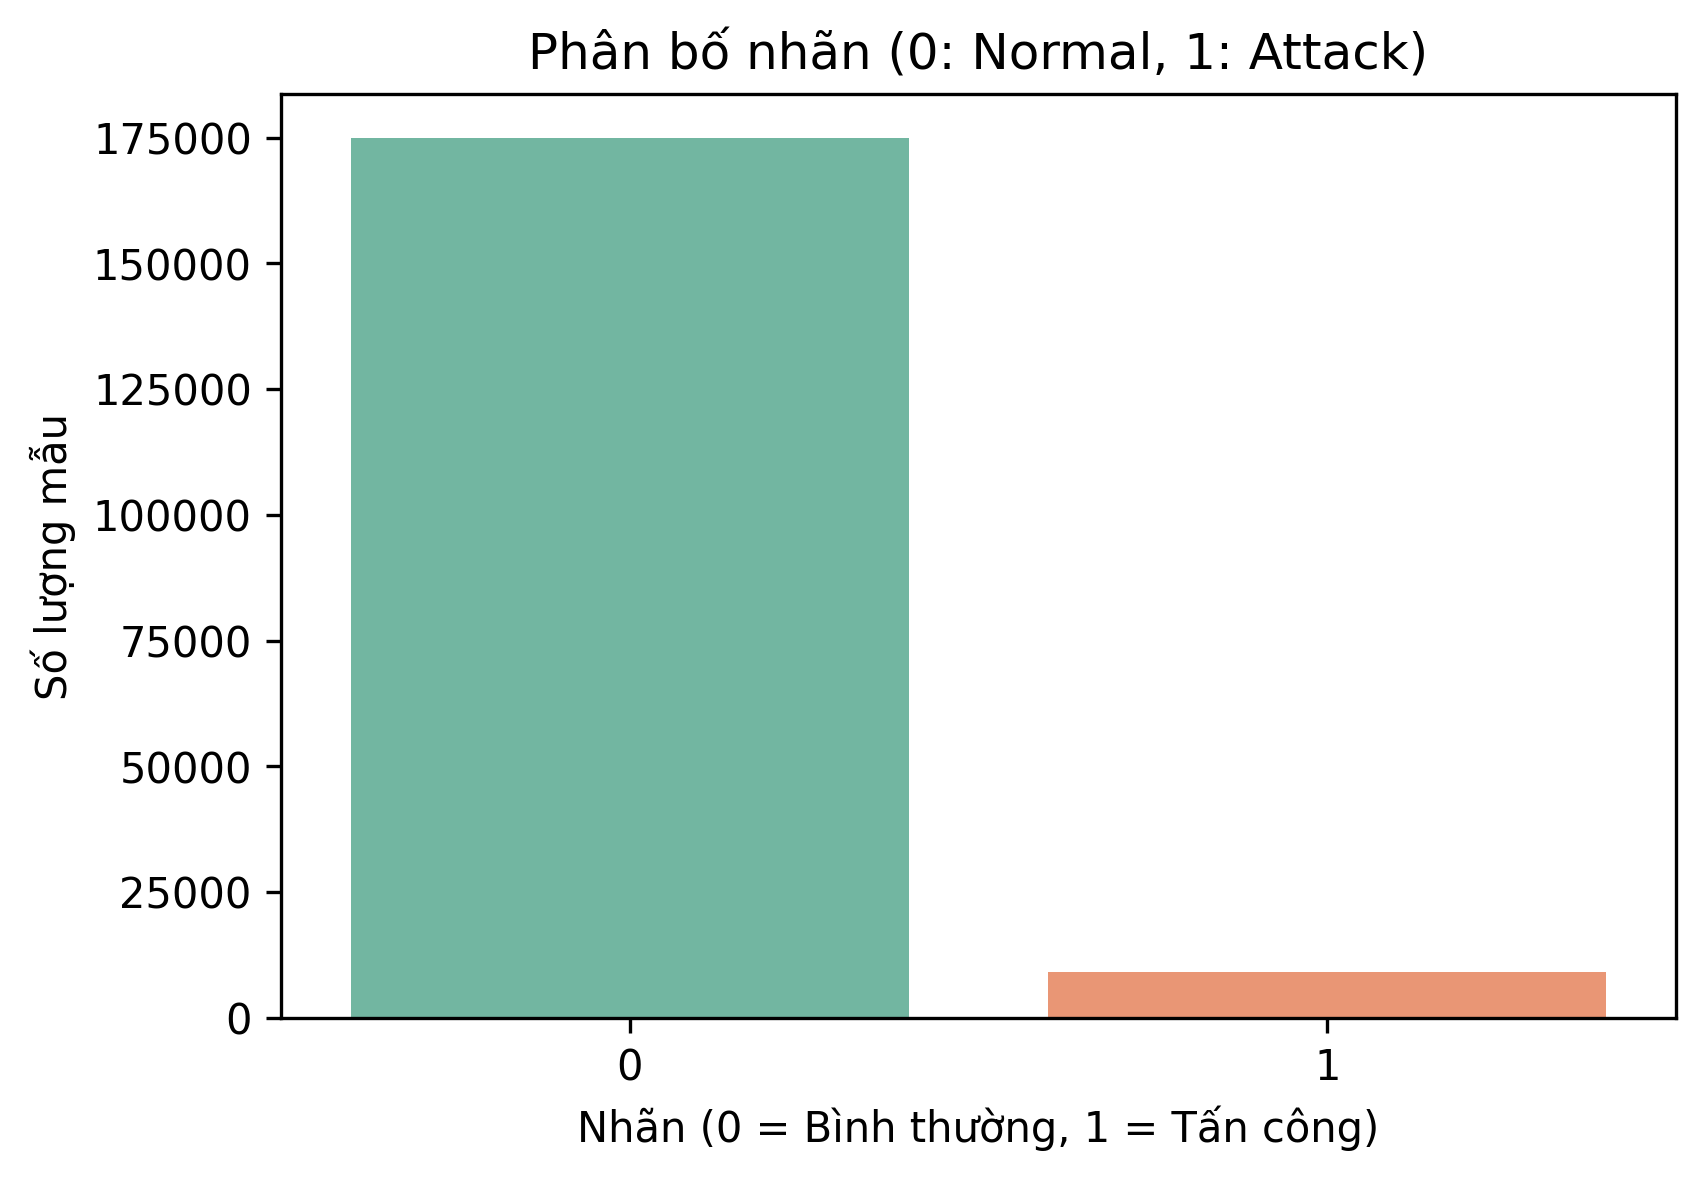
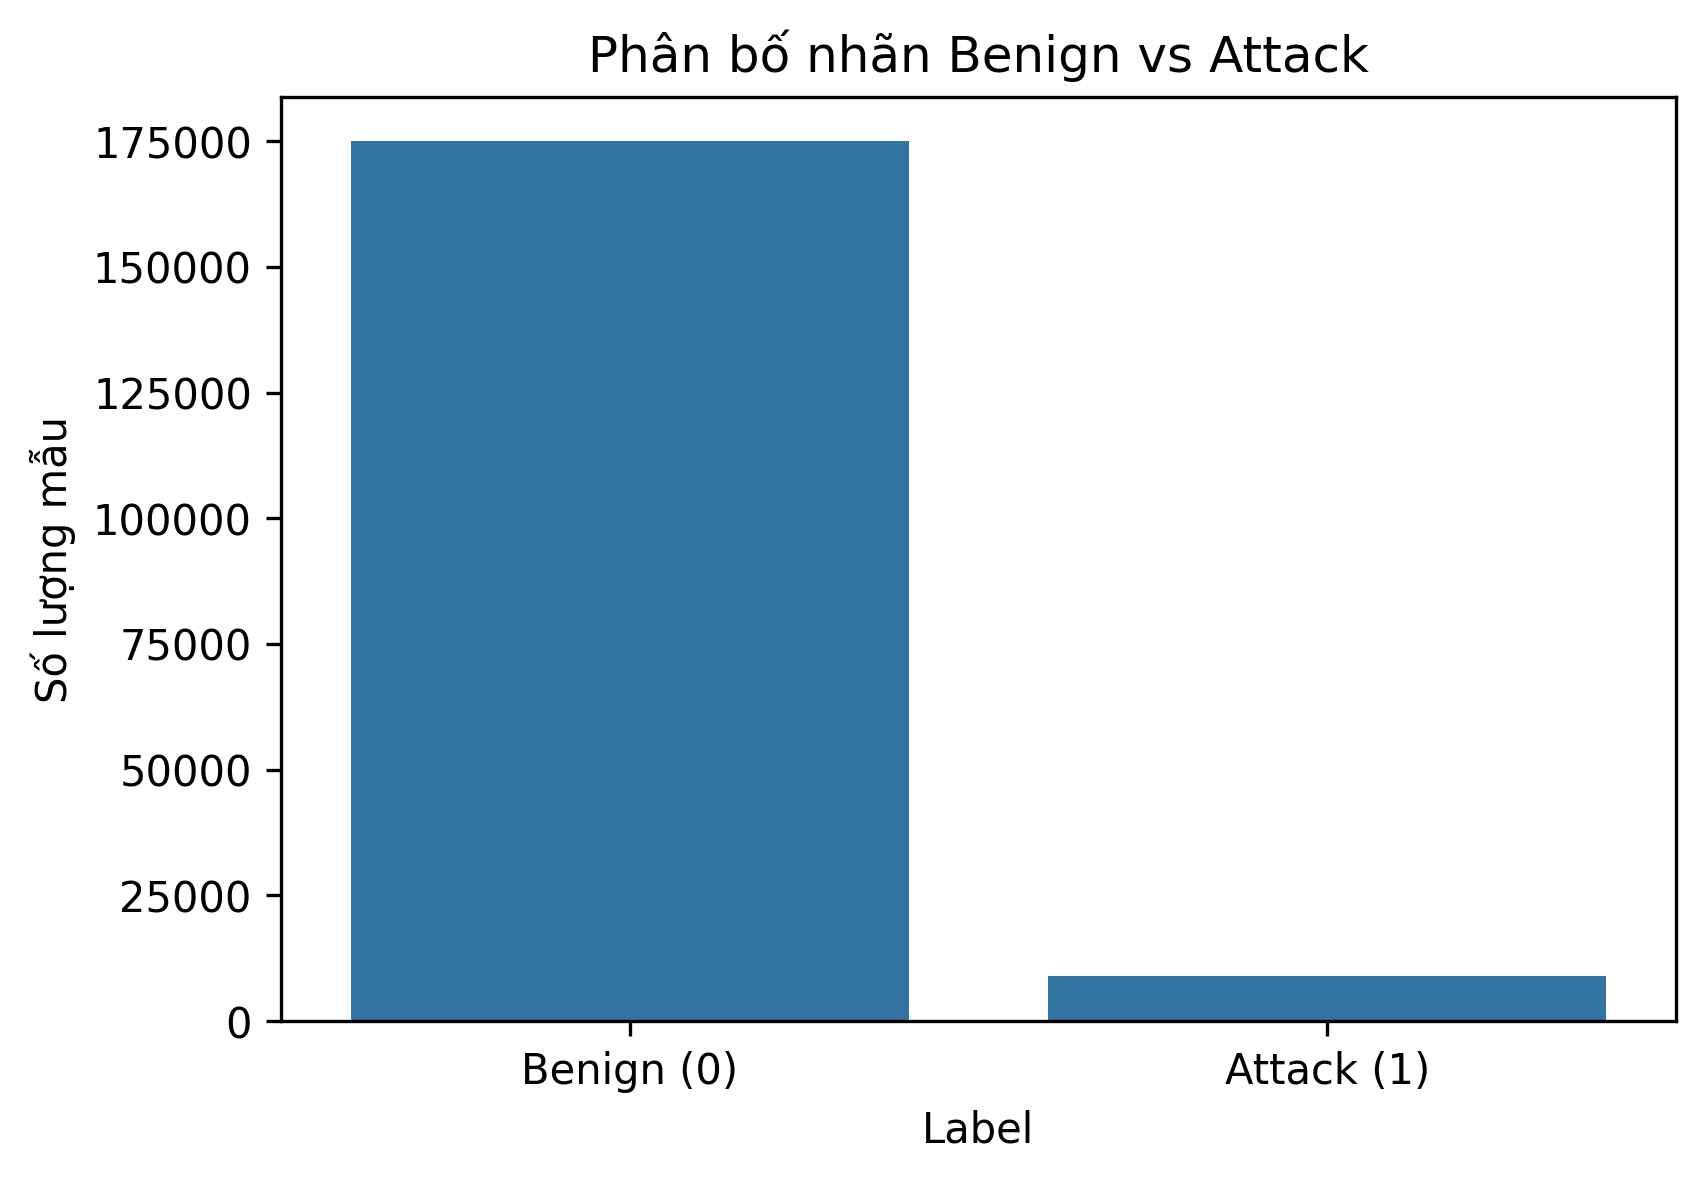
them tinh nang luu hinh

diff --git a/src/modules/evaluation.py b/src/modules/evaluation.py
@@ -1,9 +1,13 @@
+import os
 import matplotlib.pyplot as plt
 import seaborn as sns
 import pandas as pd
 from sklearn.metrics import confusion_matrix, ConfusionMatrixDisplay
 from sklearn.calibration import calibration_curve
 
+# Thư mục mặc định để lưu ảnh
+SAVE_DIR = "./results"
+os.makedirs(SAVE_DIR, exist_ok=True)
 
 # Vẽ phân bố nhãn
 def plot_label_distribution(y, next_plot=True):
@@ -13,6 +17,11 @@ def plot_label_distribution(y, next_plot=True):
     plt.xticks(ticks=[0, 1], labels=["Benign (0)", "Attack (1)"])
     plt.ylabel("Số lượng mẫu")
     plt.title("Phân bố nhãn Benign vs Attack")
+
+    save_path = os.path.join(SAVE_DIR, "label_distribution.png")
+    plt.savefig(save_path, bbox_inches="tight", dpi=300)
+    print(f"[*] Đã lưu biểu đồ tại: {save_path}")
+
     plt.show(block=False)
     plt.pause(1)
     if next_plot:
@@ -70,9 +79,13 @@ def plot_feature_boxplot(df, features, next_plot=True):
             axes[i].set_title(f"Boxplot của {feat}")
 
     plt.tight_layout()
+
+    save_path = os.path.join(SAVE_DIR, "feature_boxplot.png")
+    plt.savefig(save_path, bbox_inches="tight", dpi=300)
+    print(f"\n[*] Đã lưu biểu đồ tại: {save_path}")
+
     plt.show(block=False)
     plt.pause(1)
-
     if next_plot:
         input("\nNhấn Enter để xem biểu đồ tiếp theo")
         plt.close()
@@ -86,8 +99,11 @@ def plot_confusion_matrix(y_test, y_pred, next_plot=True):
     )
     disp.plot(cmap="Blues")
     plt.title("Confusion Matrix - Logistic Regression (Raw)")
-    plt.show(block=False)
-    plt.pause(1)
+
+    save_path = os.path.join(SAVE_DIR, "confusion_matrix.png")
+    plt.savefig(save_path, bbox_inches="tight", dpi=300)
+    print(f"\n[*] Đã lưu biểu đồ tại: {save_path}")
+
 
     tn, fp, fn, tp = cm.ravel()
     print("\nCONFUSION MATRIX")
@@ -99,7 +115,9 @@ def plot_confusion_matrix(y_test, y_pred, next_plot=True):
     print(f"Tỷ lệ False Alarm (FP/Benign): {fp/(tn+fp)*100:.2f}%")
     print(f"Tỷ lệ bỏ sót (FN/Attack):     {fn/(fn+tp)*100:.2f}%")
     print()
-
+    
+    plt.show(block=False)
+    plt.pause(1)
     if next_plot:
         input("\nNhấn Enter để xem biểu đồ tiếp theo")
         plt.close()
@@ -119,8 +137,10 @@ def plot_reliability_diagram(y_test, y_pred_prob, next_plot=True):
     plt.title("Reliability Diagram - Raw Model (Before Calibration)")
     plt.legend()
     plt.grid(True)
-    plt.show(block=False)
-    plt.pause(1)
+
+    save_path = os.path.join(SAVE_DIR, "reliability_diagram.png")
+    plt.savefig(save_path, bbox_inches="tight", dpi=300)
+    print(f"[*] Đã lưu biểu đồ tại: {save_path}")
 
     print("\nRELIABILITY DIAGRAM - CHI TIẾT CÁC BIN")
     print(f"{'Bin':<6} {'Dự đoán TB':<12} {'Thực tế':<10} {'Chênh lệch':<10}")
@@ -130,6 +150,8 @@ def plot_reliability_diagram(y_test, y_pred_prob, next_plot=True):
         print(f"Bin {i+1:<2}  {p_pred:.4f}      {p_true:.4f}     {diff:+.4f}")
     print()
 
+    plt.show(block=False)
+    plt.pause(1)
     if next_plot:
         input("\nNhấn Enter để kết thúc")
         plt.close()

diff --git a/src/main.py b/src/main.py
@@ -2,7 +2,6 @@ import pandas as pd
 
 from modules.overview import data_overview
 from modules.cleaning import data_cleaned
-from modules.visualization import generate_eda_plots
 from modules.preprocessing import preprocess_baseline
 from modules.baseline import run_baseline
 from modules.evaluation import (
@@ -20,7 +19,6 @@ df = pd.read_csv(readFile)
 data_overview(df)
 df_cleaned = data_cleaned(df)
 df_cleaned.to_csv("./data/processed/tuesday_cleaned.csv", index=False)
-generate_eda_plots(df_cleaned) # lưu vào results/
 
 # Chia dữ liệu
 X_train, X_cal, X_test, y_train, y_cal, y_test, scaler = preprocess_baseline(df_cleaned)
